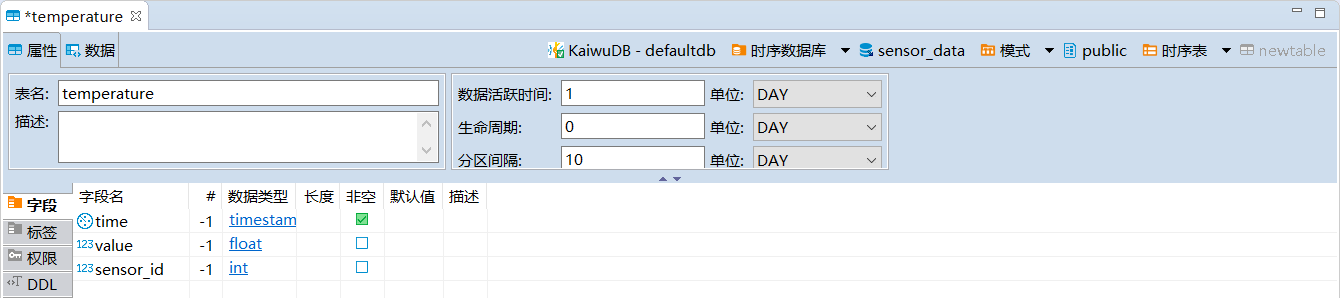
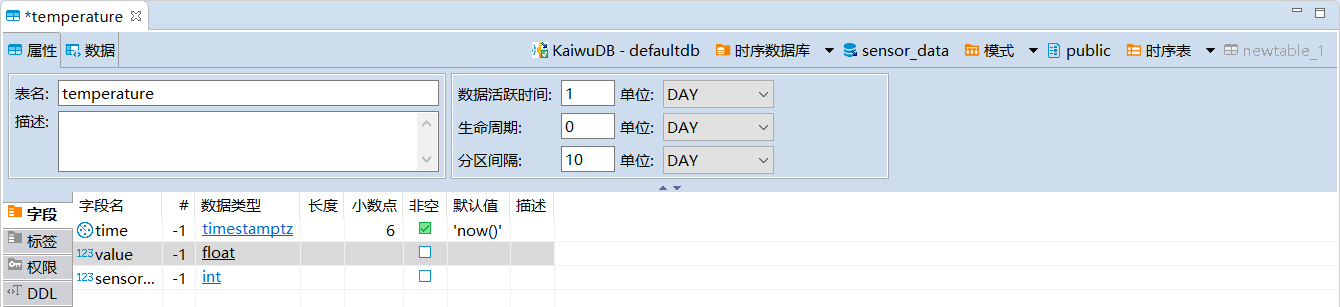
commit-message: kdc updates for 2.2.0

Changed region(s): [[0.0, 0.0302, 1.0, 0.9664], [0.9791, 0.0302, 1.0, 0.0604]]

diff --git a/quickstart/use-kaiwudb/use-kaiwudb-kdc.md b/quickstart/use-kaiwudb/use-kaiwudb-kdc.md
@@ -51,7 +51,7 @@ KaiwuDB 开发者中心窗口包含菜单栏、工具栏、导航区、对象窗
    系统将自动创建名为 `newtable` 的表，并打开对象窗口。
 
 3. 在**属性**页签，填写表名，表名的最大长度为 128 字节。根据需要设置表的数据活跃时间、生命周期、分区间隔和描述信息。默认情况下，数据活跃时间为 `1` 天，表示自动对 1 天前的分区进行压缩。生命周期为 `0` 天， 即数据永不过期，分区间隔为 `10` 天，即每 10 天进行一次分区。
-4. 在**字段**页签，新建至少两个字段，设置字段名称、数据类型、长度、是否非空、默认值和描述信息，字段名的最大长度为 128 字节。第一个字段的数据类型必须为 `timestamp` 或 `timestamptz` 且非空。实际上，系统会将 `timestamp` 数据类型处理为 `timestamptz` 数据类型。
+4. 在**字段**页签，新建至少两个字段，设置字段名称、数据类型、长度、是否非空、默认值和描述信息，字段名的最大长度为 128 字节。第一个字段的数据类型必须为 `timestamp` 或 `timestamptz` 且非空。支持设置的小数点为 3（毫秒）、6（微秒）和9（纳秒）。默认情况下，小数点为 3（毫秒）。实际上，系统会将 `timestamp` 数据类型处理为 `timestamptz` 数据类型。
 
     <img src="../../static/kdc/ts-table-create-01.png" style="zoom:67%;" />
 
@@ -98,6 +98,14 @@ KaiwuDB 开发者中心窗口包含菜单栏、工具栏、导航区、对象窗
 
 在数据库导航区，双击需要查看的时序表，即可查看表的属性和数据信息。
 
+::: warning 提示
+
+- 如果表中包含大量数据行，可以通过工具栏查看数据的总行数，设置每页显示的行数（默认 100 行），并通过点击第一页、上一页、下一页和最后一页图标来分页查看。
+- 设置每页显示行数后，需要点击第一页、上一页、下一页或最后一页图标，以查看生效后的分页效果。
+
+:::
+
+<img src="../../static/kdc/ts-page.png" style="zoom:67%;" />
 
 ## 关系数据
 
@@ -181,3 +189,12 @@ KaiwuDB 开发者中心窗口包含菜单栏、工具栏、导航区、对象窗
 | 属性  | 表名、描述、字段、约束、外键、索引、权限和建表语句等信息。 |
 | 数据  | 以网格和文本形式查看表内数据。                             |
 | ER 图 | 以图形方式展示数据库实体、属性和关系之间的结构和链接。     |
+
+::: warning 提示
+
+- 如果表中包含大量数据行，可以通过工具栏查看数据的总行数，设置每页显示的行数（默认 100 行），并通过点击第一页、上一页、下一页和最后一页图标来分页查看。
+- 设置每页显示行数后，需要点击第一页、上一页、下一页或最后一页图标，以查看生效后的分页效果。
+
+:::
+
+<img src="../../static/kdc/ts-page.png" style="zoom:67%;" />

diff --git a/kaiwudb-developer-center/debug.md b/kaiwudb-developer-center/debug.md
@@ -1,0 +1,58 @@
+---
+title: 故障排查
+id: debug
+---
+
+# 故障排查
+
+KaiwuDB 开发者中心支持通过启用调试日志开关，设置调试日志文件大小和个数限制，帮助用户进行故障排查。
+
+调试日志功能启用后，系统将在用户数据目录的`./matadata` 文件夹下生成 `debug.log` 日志文件，记录发送给数据库的 SQL 语句、执行时间，以及各模块打印的 `DEBUG` 及以上级别的日志信息。
+
+不同操作系统的默认数据目录如下：
+
+- Windows：`C:\Users\{username}\AppData\Roaming\KaiwuDB_Developer_Center\workspace6\.metadata`
+- Linux: `~/.local/share/KaiwuDB_Developer_Center/workspace6/.metadata`
+- Mac: `~/Library/KaiwuDB_Developer_Center/workspace6/.metadata`
+
+日志格式如下：
+
+```plain
+timestamp [thread_name] level class_name - message
+```
+
+其中：
+
+- `timestamp`: 事件发生时的时间戳，精度为毫秒级，例如 `2025-02-18 10:59:50.443`
+- `thread_name`: 线程名称，如 `main`, `连接到数据库:'KaiwuDB - defaultdb' `
+- `level`: 日志级别，包括 `DEBUG`、`INFO`、`WARN`、`ERROR` 和 `FATAL`。
+- `class_name`：日志类名，例如 `c.k.k.u.e.s.e.DBSQLQueryJob`
+- `message`: 日志信息。
+
+示例：
+
+```plain
+2025-02-18 11:38:58.513 [读取数据 [show create table t2]] DEBUG c.k.k.m.i.j.e.JDBCStatementImpl - execute() Query executed: show create table t2
+```
+
+## 步骤
+
+以下以 Windows 版本的 KaiwuDB 开发者中心为例说明如何启用调试日志功能：
+
+1. 打开安装包内的 `KaiwuDB Developer Center.ini`文件。
+
+    ![](../static/kdc/ini.png)
+
+2. 将调试日志开关 `debug.enabled` 设置为 `true`。
+3. 根据需要在文件末尾添加调试日志文件的大小和个数限制。
+
+    ```java
+    -Dlogs.debug.files.output.maxSize=10485760
+    -Dlogs.debug.files.output.maxCount=5
+    ```
+
+    参数说明：
+    - `debug.files.output.maxSize`: 调试日志文件的最大大小，默认值为 `10485760`, 即 10 MB。文件大小达到限制时，系统会对文件进行切分，生成新的文件，命名格式为`debug-{ms_timestamp}.log`, 例如 `debug-1739847590443.log`。
+    - `debug.files.output.maxCount`：调试日志文件的个数限制，默认值为 `5`, 文件数量达到限制时，系统会按照时间戳从最旧到最新的顺序删除文件，避免占用过多磁盘空间。
+
+4. 保存文件并重启 KaiwuDB 开发者中心，使配置生效。

diff --git a/kaiwudb-developer-center/ts-db/ts-table-mgmt.md b/kaiwudb-developer-center/ts-db/ts-table-mgmt.md
@@ -40,7 +40,7 @@ KaiwuDB 开发者中心支持创建、编辑、查看、删除、重命名时序
     系统将自动创建名为 **newtable** 的表，并打开对象窗口。
 
 3. 在**属性**页签，填写表名，表名的最大长度为 128 字节。根据需要设置表的数据活跃时间、生命周期、分区间隔和描述信息。默认情况下，数据活跃时间为 `1` 天，表示自动对 1 天前的分区进行压缩。生命周期为 `0` 天， 即数据永不过期，分区间隔为 `10` 天，即每 10 天进行一次分区。
-4. 在**字段**页签，新建至少两个字段，设置字段名称、数据类型、长度、是否非空、默认值和描述信息，字段名的最大长度为 128 字节。第一个字段的数据类型必须为 `timestamp` 或 `timestamptz` 且非空。实际上，系统会将 `timestamp` 数据类型处理为 `timestamptz` 数据类型。
+4. 在**字段**页签，新建至少两个字段，设置字段名称、数据类型、长度、是否非空、默认值和描述信息，字段名的最大长度为 128 字节。第一个字段的数据类型必须为 `timestamp` 或 `timestamptz` 且非空。支持设置的小数点为 3（毫秒）、6（微秒）和9（纳秒）。默认情况下，小数点为 3（毫秒）。实际上，系统会将 `timestamp` 数据类型处理为 `timestamptz` 数据类型。
 
     <img src="../../static/kdc/ts-table-create-01.png" style="zoom:67%;" />
 
@@ -107,6 +107,15 @@ KaiwuDB 开发者中心支持创建、编辑、查看、删除、重命名时序
 ### 查看时序表
 
 在数据库导航区，双击需要查看的时序表，即可查看时序表的属性和数据信息。
+
+::: warning 提示
+
+- 如果表中包含大量数据行，可以通过工具栏查看数据的总行数，设置每页显示的行数（默认 100 行），并通过点击第一页、上一页、下一页和最后一页图标来分页查看。
+- 设置每页显示行数后，需要点击第一页、上一页、下一页或最后一页图标，以查看生效后的分页效果。
+
+:::
+
+<img src="../../static/kdc/ts-page.png" style="zoom:67%;" />
 
 ### 删除时序表
 

diff --git a/kaiwudb-developer-center/relational-db/relational-table-mgmt.md b/kaiwudb-developer-center/relational-db/relational-table-mgmt.md
@@ -81,6 +81,15 @@ KaiwuDB 开发者中心支持创建、编辑、查看、截断、删除、重命
 | 数据  | 以网格和文本形式查看表内数据。                             |
 | ER 图 | 以图形方式展示数据库实体、属性和关系之间的结构和链接。     |
 
+::: warning 提示
+
+- 如果表中包含大量数据行，可以通过工具栏查看数据的总行数，设置每页显示的行数（默认 100 行），并通过点击第一页、上一页、下一页和最后一页图标来分页查看。
+- 设置每页显示行数后，需要点击第一页、上一页、下一页或最后一页图标，以查看生效后的分页效果。
+
+:::
+
+<img src="../../static/kdc/ts-page.png" style="zoom:67%;" />
+
 ### 截断关系表
 
 如需截断关系表，遵循以下步骤。

diff --git a/kaiwudb-developer-center/overview.md b/kaiwudb-developer-center/overview.md
@@ -30,3 +30,4 @@ KaiwuDB 开发者中心涵盖了数据库连接、数据库管理、模式管理
 - [系统信息](./system-info.md)
 - [SQL 编辑器](./sql-editor.md)
 - [过滤和计算查询结果](./filter-cal-results.md)
+- [故障排查](./debug.md)
